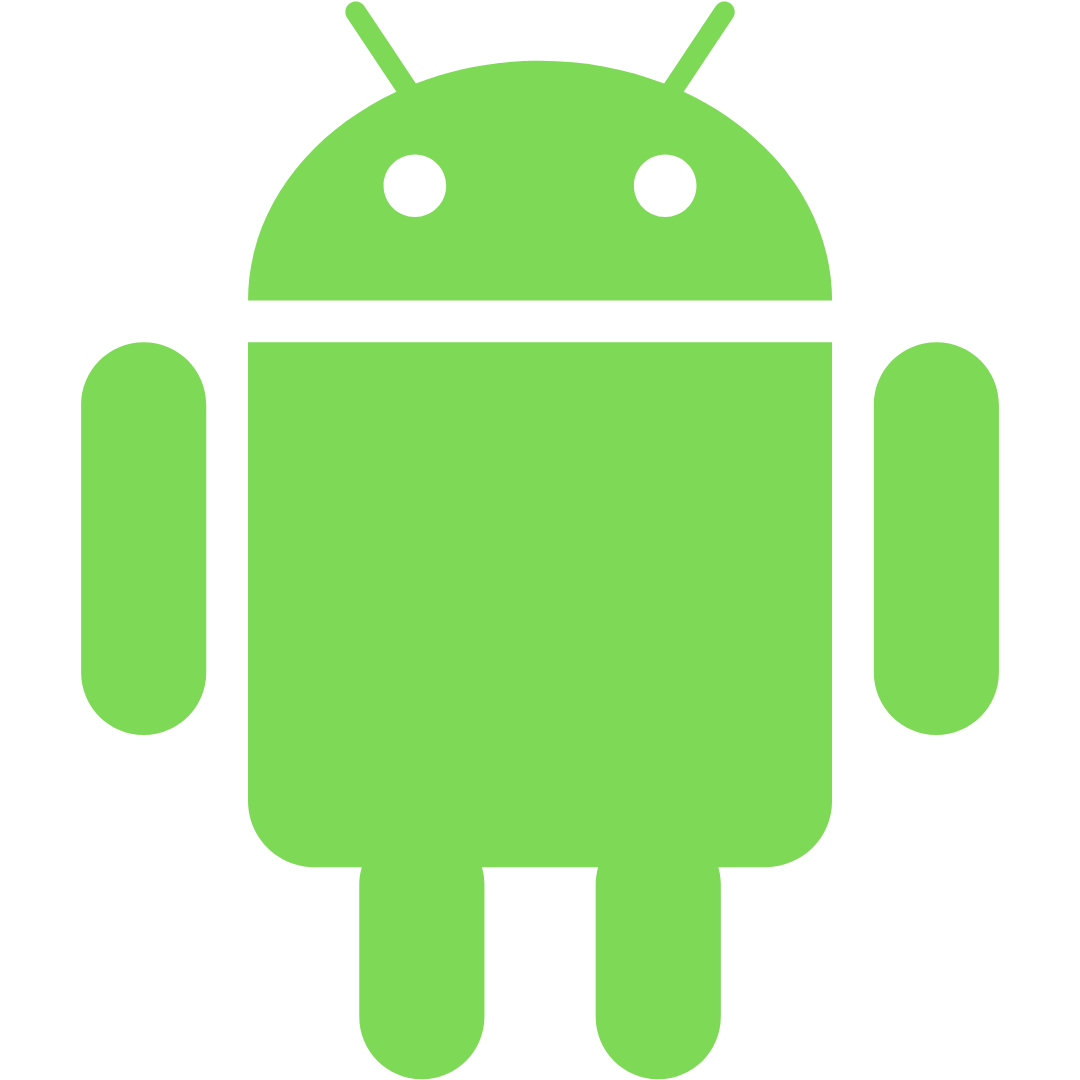
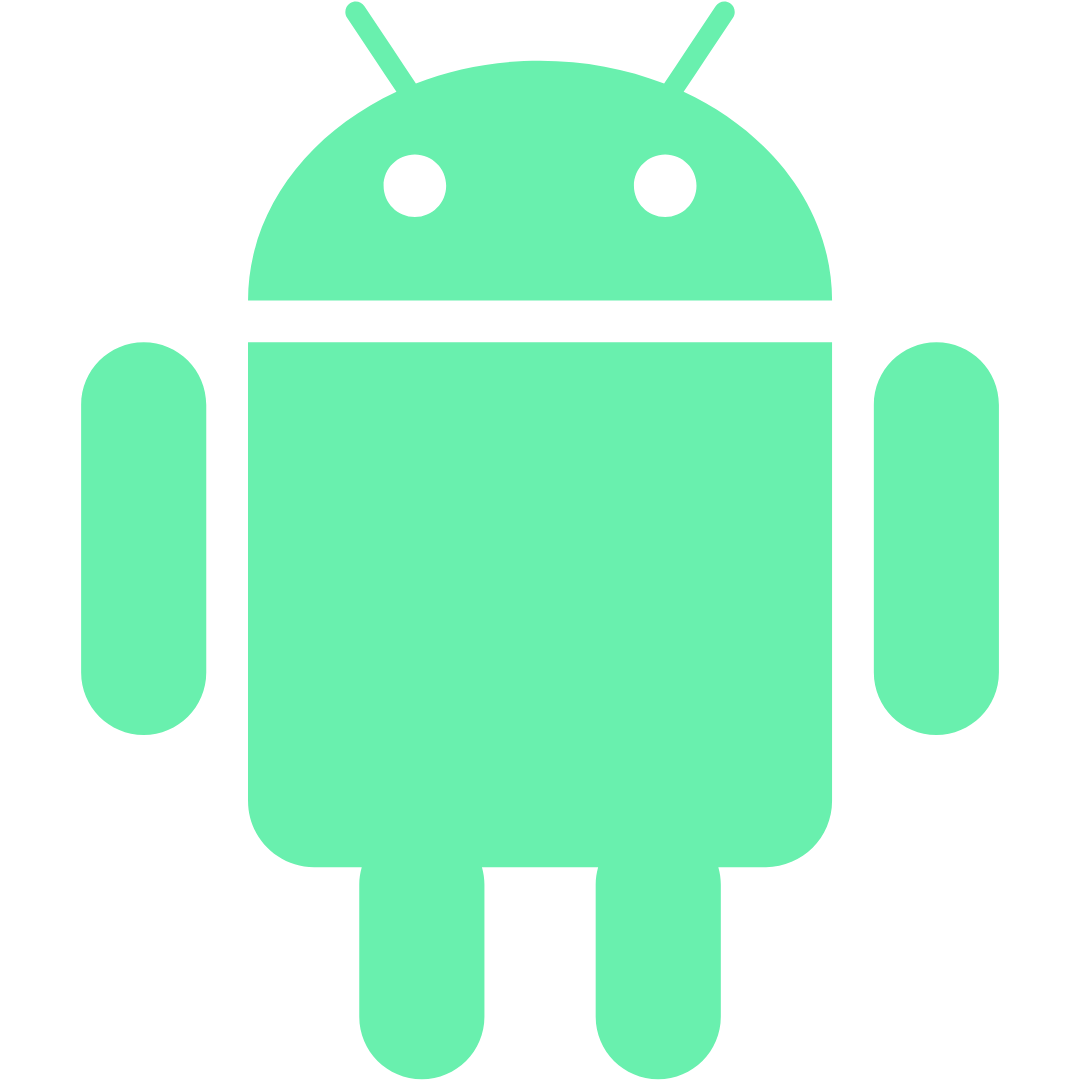
Add 2 more animations (#2)
* Add 2 new animations
* Fix color of standalone green Android
* Add preview for white android

diff --git a/README.md b/README.md
@@ -8,4 +8,6 @@ Android-related emojis for Slack
 | <img src="androidred.png" width="100" height="100"> | <img src="androidgray.png" width="100" height="100"> | <img src="androidyellow.png" width="100" height="100"> | <img src="androidbrown.png" width="100" height="100"> |
 | <img src="androidhead.png" width="100" height="100"> | <img src="androidfixer.png" width="100" height="100"> | <img src="androidwave.png" width="100" height="100"> | <img src="androidcelebrate.png" width="100" height="100"> |
 | <img src="androidstudio4.png" width="100" height="100"> | <img src="kotlinandroid2.png" width="100" height="100"> | <img src="kotlin.png" width="100" height="100"> | <img src="kotlinandroid.png" width="100" height="100"> |
-| <img src="androidtogether.png" width="100" height="100"> | <img src="androidalltogether.png" width="100" height="100"> | <img src="androidtogetherparty.gif" width="100" height="100"> | <img src="togethernotthesame.png" width="100" height="100"> |
+| <img src="androidtogether.png" width="100" height="100"> | <img src="androidalltogether.png" width="100" height="100"> | <img src="androidstudio3.png" width="100" height="100"> | <img src="togethernotthesame.png" width="100" height="100"> |
+| <img src="androidstrobe.gif" width="100" height="100"> | <img src="androidpop.gif" width="100" height="100"> | <img src="androidtogetherparty.gif" width="100" height="100"> | <img src="androidwhite.png" width="100" height="100"> |
+
